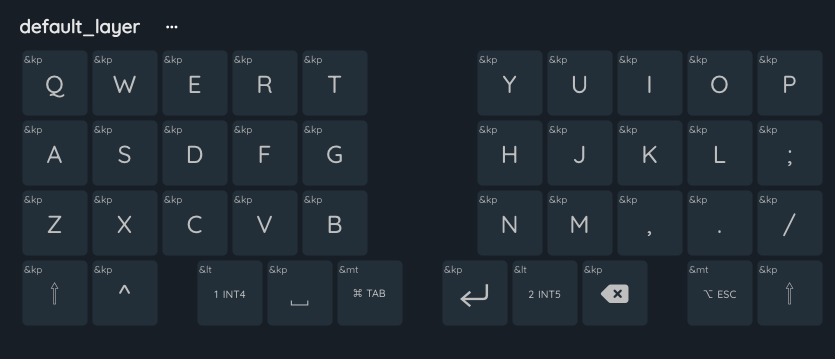
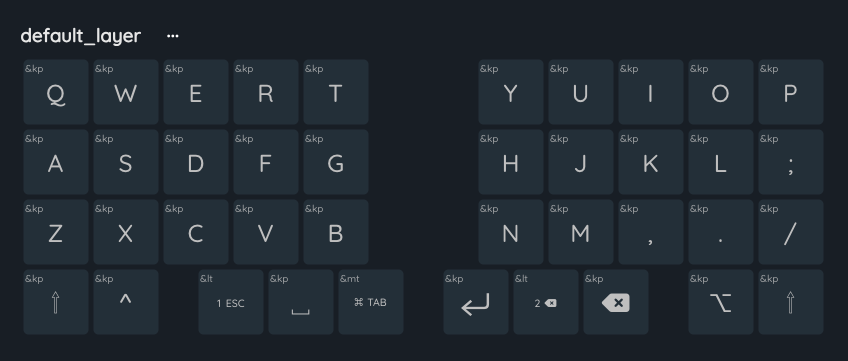
Implement code changes to enhance functionality and improve performance

diff --git a/README.md b/README.md
@@ -13,4 +13,4 @@
 <img width="auto" height="auto" alt="Image" src="./public/img/layer2.png" />
 
 <div>Layer 3 マウス使用した際はこのマップ</div>
-<img width="auto" height="auto" alt="Image" src="https://github.com/user-attachments/assets/2efe5275-e460-41bc-ae45-0c0665435268" />
+<img width="auto" height="auto" alt="Image" src="./public/img/layer3.png" />
